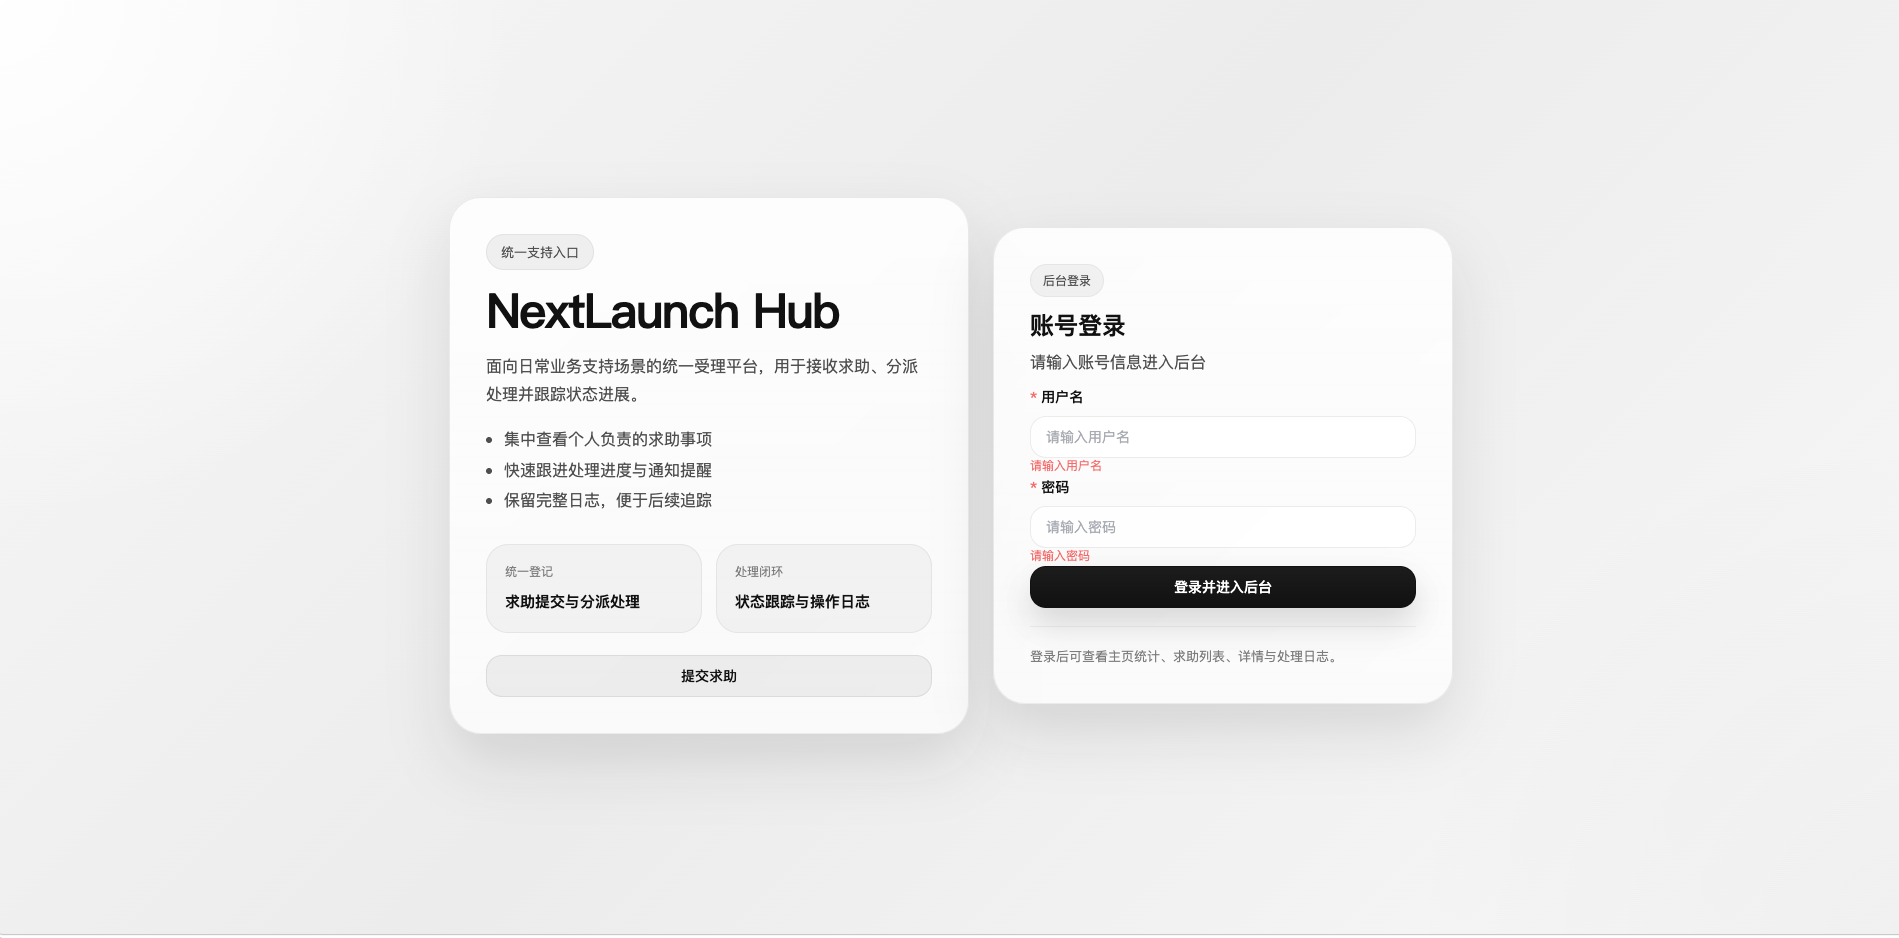
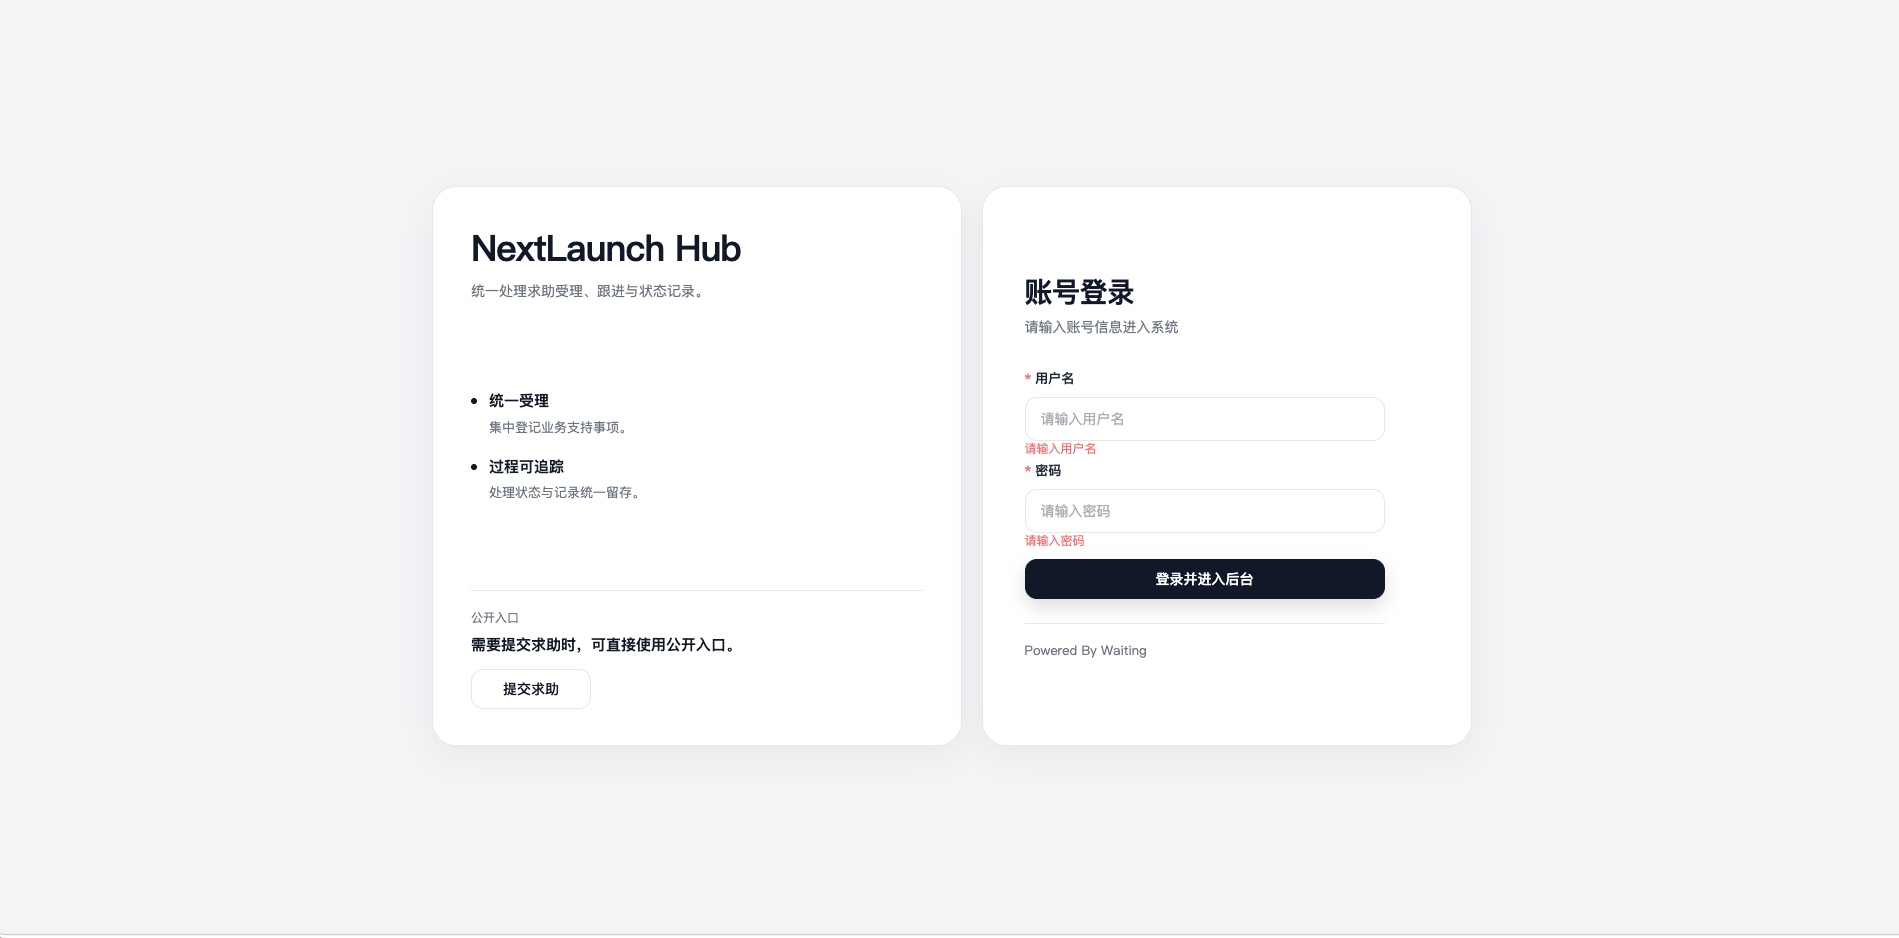
v5.2 update: 优化整体页面的一些问题

Changed region(s): [[0.2175, 0.2473, 0.7767, 0.8038], [0.3728, 0.5874, 0.466, 0.6493]]

diff --git a/web/src/layout/AdminLayout.vue b/web/src/layout/AdminLayout.vue
@@ -3,21 +3,21 @@
     <aside class="sidebar">
       <div class="sidebar-scroll">
         <div class="brand-block">
-          <div class="brand-mark">NL</div>
+          <div class="brand-mark">NLH</div>
           <div class="brand-copy">
             <div class="brand-title">NextLaunch Hub</div>
-            <div class="brand-subtitle">业务支持后台</div>
+            <div class="brand-subtitle">系统主页</div>
           </div>
         </div>
 
-        <div class="sidebar-user-card">
-          <span class="sidebar-user-name">{{ authStore.user?.realName }}</span>
-          <small>{{ roleTextMap[authStore.user?.role] || '用户' }}</small>
-        </div>
+<!--        <div class="sidebar-user-card">-->
+<!--          <span class="sidebar-user-name">{{ authStore.user?.realName }}</span>-->
+<!--          <small>{{ roleTextMap[authStore.user?.role] || '用户' }}</small>-->
+<!--        </div>-->
 
         <div class="sidebar-section-label">导航菜单</div>
         <nav class="menu-list">
-          <router-link class="menu-item" to="/dashboard">主页</router-link>
+          <router-link class="menu-item" to="/dashboard">系统主页</router-link>
           <router-link class="menu-item" to="/help-center">求助中心</router-link>
           <router-link class="menu-item" to="/projects">项目管理</router-link>
           <router-link class="menu-item" to="/tasks">任务管理</router-link>
@@ -32,8 +32,10 @@
       </div>
 
       <div class="sidebar-footer">
-        <div class="sidebar-footer-title">当前系统</div>
-        <p>支持求助受理、流转处理、通知提醒与业务协同。</p>
+        <div class="sidebar-footer-title">当前运行系统</div>
+        <p><span></span></p>
+        <p><a href="https://github.com/YEXIAONAN/NextLaunchHub">稳定版</a></p>
+        <p><a href="https://github.com/YEXIAONAN">Powered By Waiting</a></p>
       </div>
     </aside>
 
@@ -105,7 +107,7 @@ const roleTextMap = {
 };
 
 const pageMetaMap = [
-  { match: (path) => path === '/dashboard', title: '主页', description: '查看重点事项、统计概览与最近求助记录。' },
+  { match: (path) => path === '/dashboard', title: '系统主页', description: '查看重点事项、统计概览与最近求助记录。' },
   { match: (path) => path.startsWith('/help-center'), title: '求助中心', description: '统一查看求助单、处理状态与流转详情。' },
   { match: (path) => path.startsWith('/projects'), title: '项目管理', description: '管理项目进度、成员安排与里程碑信息。' },
   { match: (path) => path.startsWith('/tasks'), title: '任务管理', description: '跟进任务状态、优先级与执行安排。' },

diff --git a/web/src/styles/theme.css b/web/src/styles/theme.css
@@ -270,7 +270,7 @@ select {
 
 .topbar-eyebrow {
   display: inline-flex;
-  margin-bottom: 0;
+  margin-bottom: 1px;
   color: #6b7280;
   font-size: 12px;
   font-weight: 600;
@@ -356,6 +356,8 @@ select {
 
 .topbar-user span {
   font-weight: 600;
+  text-decoration: underline;
+  text-underline-offset: 3px;
 }
 
 .topbar-user small {
@@ -394,7 +396,7 @@ select {
 }
 
 .page-card {
-  padding: 24px;
+  padding: 26px;
   border-radius: var(--radius-lg);
 }
 
@@ -421,7 +423,7 @@ select {
 .table-meta-note {
   display: inline-flex;
   align-items: center;
-  min-height: 30px;
+  min-height: 10px;
   padding: 0 12px;
   border-radius: 999px;
   background: #fafafa;
@@ -436,14 +438,14 @@ select {
   width: fit-content;
   min-height: 30px;
   align-items: center;
-  padding: 0 12px;
+  padding: 0 11px;
   border-radius: 999px;
   background: #f3f4f6;
   color: #374151;
-  border: 1px solid #e5e7eb;
+  border: 2px solid #e5e7eb;
   font-size: 12px;
   font-weight: 600;
-  letter-spacing: 0.02em;
+  letter-spacing: 0.09em;
 }
 
 .stats-grid,
@@ -583,12 +585,12 @@ select {
 }
 
 .custom-table th.el-table__cell {
-  font-weight: 600;
+  font-weight: 900;
 }
 
 .custom-table td.el-table__cell,
 .custom-table th.el-table__cell {
-  padding: 14px 0;
+  padding: 12px 0;
 }
 
 .custom-table .timeout-row td.el-table__cell {
@@ -832,7 +834,7 @@ select {
 .dashboard-hero-feature {
   display: flex;
   flex-direction: column;
-  gap: 20px;
+  gap: 28.5px;
   padding: 30px;
   background: #ffffff;
   border-color: #e5e7eb;
@@ -841,15 +843,15 @@ select {
 
 .dashboard-hero-heading h2 {
   margin: 0;
-  font-size: 34px;
+  font-size: 39px;
   line-height: 1.12;
   letter-spacing: -0.03em;
   color: #111827;
 }
 
 .dashboard-hero-heading p {
-  margin-top: 10px;
-  font-size: 13px;
+  margin-top: 9px;
+  font-size: 17px;
   color: #6b7280;
 }
 
@@ -940,7 +942,7 @@ select {
 
 .dashboard-side-metric span {
   display: block;
-  margin-top: 6px;
+  margin-top: 25.8px;
   color: #6b7280;
   font-size: 12px;
   line-height: 1.5;
@@ -1112,7 +1114,7 @@ select {
 
 .dashboard-summary-item span {
   display: block;
-  margin-top: 6px;
+  margin-top: 50.5px;
   color: #6b7280;
   line-height: 1.5;
   font-size: 12px;
@@ -1138,7 +1140,7 @@ select {
 
 .dashboard-recent-panel {
   min-height: 0;
-  padding-top: 22px;
+  padding-top: 46px;
 }
 
 .form-grid,
@@ -1189,8 +1191,9 @@ select {
 .collaboration-actions,
 .dialog-footer {
   display: flex;
-  gap: 12px;
+  gap: 19px;
   flex-wrap: wrap;
+  margin-top: 19px;
 }
 
 .notification-item {

diff --git a/web/src/views/dashboard/DashboardView.vue b/web/src/views/dashboard/DashboardView.vue
@@ -3,8 +3,8 @@
     <section class="dashboard-hero">
       <article class="page-card dashboard-hero-feature">
         <div class="dashboard-hero-heading">
-          <span class="eyebrow">今日工作台</span>
-          <h2>{{ authStore.user?.realName || '用户' }}，先处理最重要的事项</h2>
+<!--          <span class="eyebrow">今日工作台</span>-->
+          <h2>尊敬的 {{ authStore.user?.realName || '用户' }} 欢迎登陆</h2>
           <p>{{ todayText }} ｜ {{ tipText }}</p>
         </div>
 
@@ -41,15 +41,15 @@
             </div>
           </div>
 
-          <div v-if="systemNotificationStore.shouldShowEnableEntry" class="dashboard-system-alert">
-            <div>
-              <strong>系统提醒未开启</strong>
-              <p>建议开启浏览器通知。</p>
-            </div>
-            <el-button class="secondary-action" @click="handleEnableSystemNotification">
-              开启系统提醒
-            </el-button>
-          </div>
+<!--          <div v-if="systemNotificationStore.shouldShowEnableEntry" class="dashboard-system-alert">-->
+<!--            <div>-->
+<!--              <strong>系统提醒未开启</strong>-->
+<!--              <p>建议开启浏览器通知。</p>-->
+<!--            </div>-->
+<!--            <el-button class="secondary-action" @click="handleEnableSystemNotification">-->
+<!--              开启系统提醒-->
+<!--            </el-button>-->
+<!--          </div>-->
         </article>
       </aside>
     </section>
@@ -149,7 +149,7 @@
             </button>
             <button class="dashboard-shortcut-card" @click="router.push('/help-center')">
               <span>求助中心</span>
-              <strong>查看业务单据</strong>
+              <strong>查看求助信息</strong>
               <p>继续跟进处理</p>
             </button>
             <button class="dashboard-shortcut-card" @click="router.push('/help-query')">

diff --git a/web/src/views/help-center/HelpCenterListView.vue b/web/src/views/help-center/HelpCenterListView.vue
@@ -63,14 +63,14 @@
             </div>
           </template>
         </el-table-column>
-        <el-table-column label="关联任务" min-width="220">
-          <template #default="{ row }">
-            <div class="relation-cell">
-              <strong>{{ row.task_title || '-' }}</strong>
-              <span v-if="row.task_id">ID: {{ row.task_id }}</span>
-            </div>
-          </template>
-        </el-table-column>
+<!--        <el-table-column label="关联任务" min-width="220">-->
+<!--          <template #default="{ row }">-->
+<!--            <div class="relation-cell">-->
+<!--              <strong>{{ row.task_title || '-' }}</strong>-->
+<!--              <span v-if="row.task_id">ID: {{ row.task_id }}</span>-->
+<!--            </div>-->
+<!--          </template>-->
+<!--        </el-table-column>-->
         <el-table-column label="当前状态" min-width="120">
           <template #default="{ row }">
             <StatusTag :status="row.status" />

diff --git a/web/src/views/public/LoginView.vue b/web/src/views/public/LoginView.vue
@@ -3,7 +3,7 @@
     <section class="auth-shell">
       <div class="auth-brand-panel">
         <div class="auth-brand-top">
-          <span class="eyebrow">统一支持入口</span>
+<!--          <span class="eyebrow">统一支持入口</span>-->
           <h1>NextLaunch Hub</h1>
           <p>统一处理求助受理、跟进与状态记录。</p>
         </div>
@@ -36,7 +36,7 @@
 
       <section class="auth-login-panel">
         <div class="panel-header login-header">
-          <span class="panel-badge">后台登录</span>
+<!--          <span class="panel-badge">后台登录</span>-->
           <h2>账号登录</h2>
           <p>请输入账号信息进入系统</p>
         </div>

diff --git a/README.md b/README.md
@@ -2,7 +2,8 @@
 
 NextLaunch Hub 是一个前后端分离的求助协同系统，覆盖公开发起、后台受理、状态流转、协同处理、通知提醒、超时预警与基础项目任务协同等核心场景。
 
-![index](img/index.png)
+![Index](img/index.png)
+![Dashboard](img/dashboard.png)
 
 ## 项目概览
 
